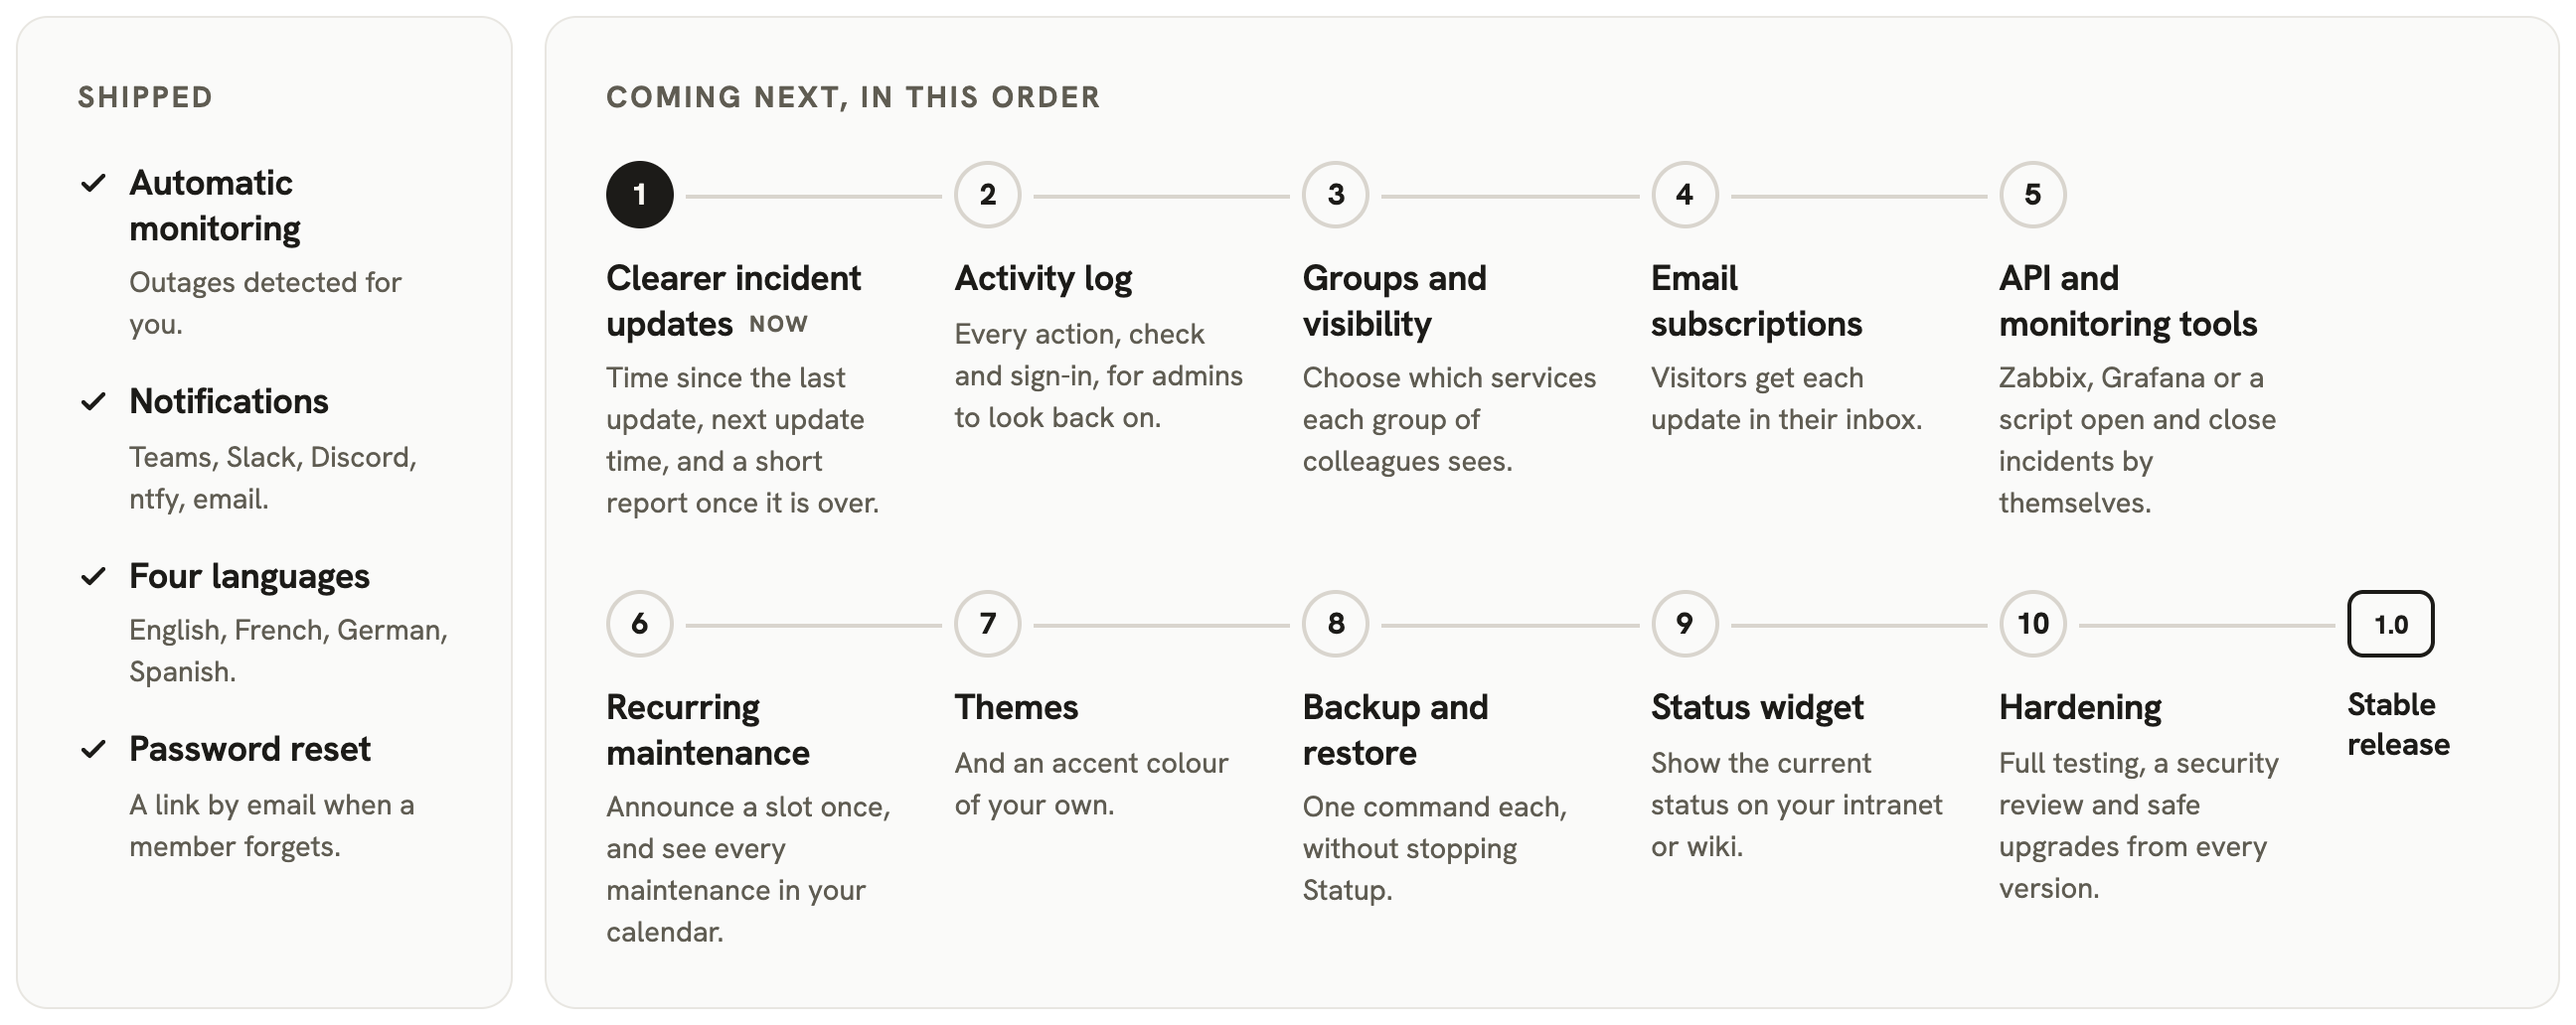
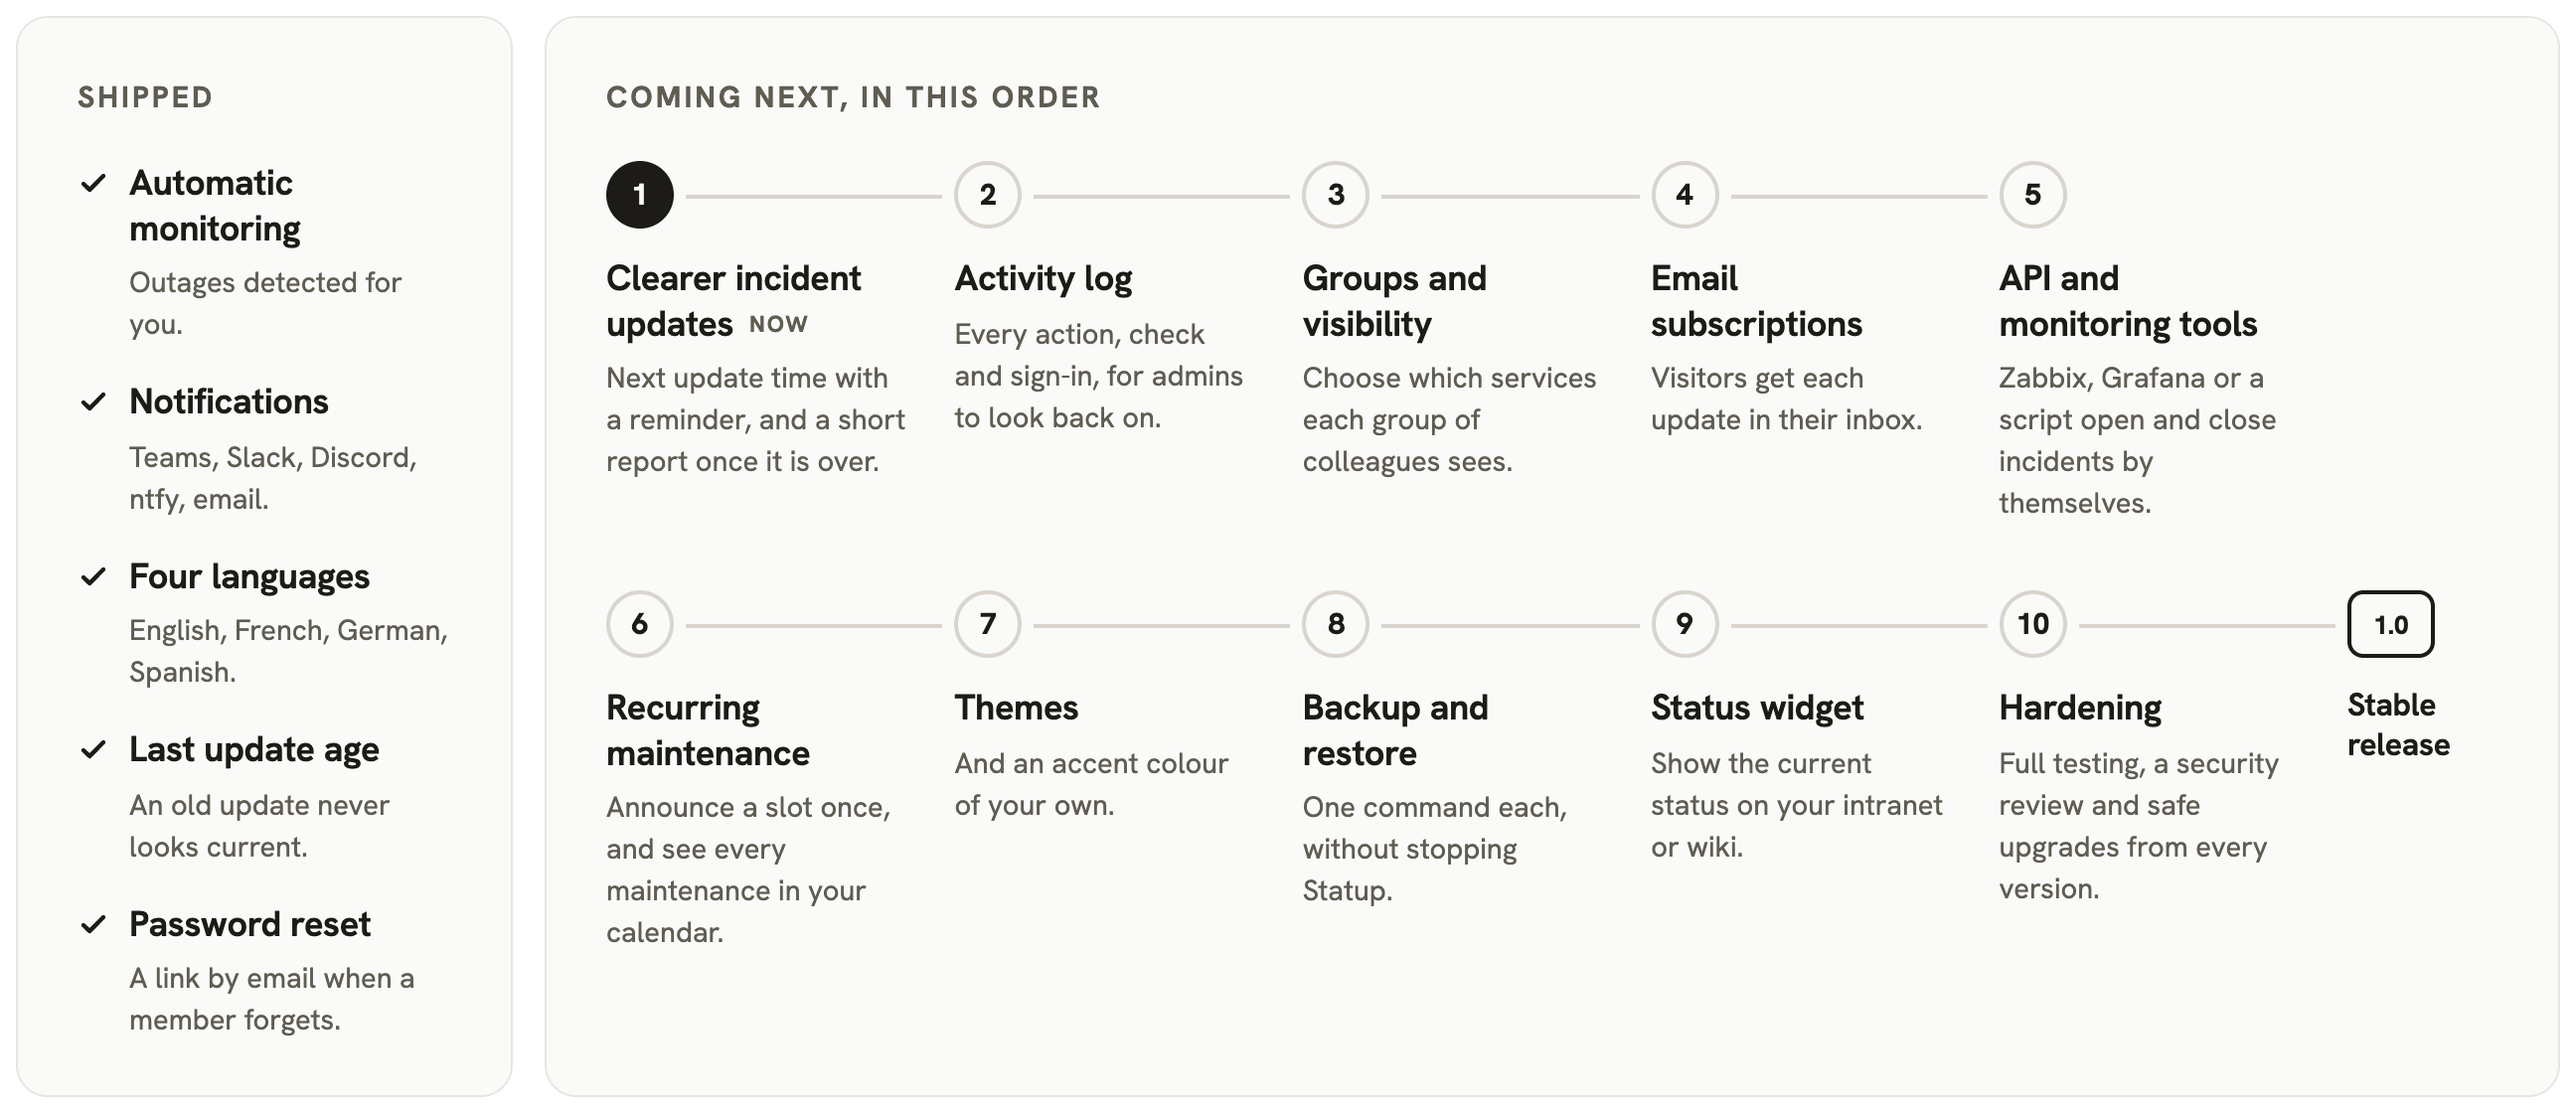
roadmap lists the age of the last update as shipped

diff --git a/README.md b/README.md
@@ -90,12 +90,12 @@ Add them from the **Team** page: they open the same address. For HTTPS and a nam
 
 <picture>
   <source media="(prefers-color-scheme: dark)" srcset=".github/assets/roadmap-dark.png">
-  <img src=".github/assets/roadmap.png" alt="Roadmap: shipped are automatic monitoring, notifications, four languages and password reset; coming next, in order, the ten steps listed below, then the stable 1.0 release" width="1296">
+  <img src=".github/assets/roadmap.png" alt="Roadmap: shipped are automatic monitoring, notifications, four languages, the age of the last update and password reset; coming next, in order, the ten steps listed below, then the stable 1.0 release" width="1296">
 </picture>
 
 Planned, in this order, without dates:
 
-1. **Clearer incident updates**: time since the last update, next update time with a reminder, and a short report once it is over.
+1. **Clearer incident updates**: next update time with a reminder, and a short report once it is over.
 2. **Activity log**: every action, check and sign-in, for administrators to look back on.
 3. **Groups and visibility**: choose which services and events each group of colleagues sees.
 4. **Email subscriptions**: visitors get each update in their inbox.
